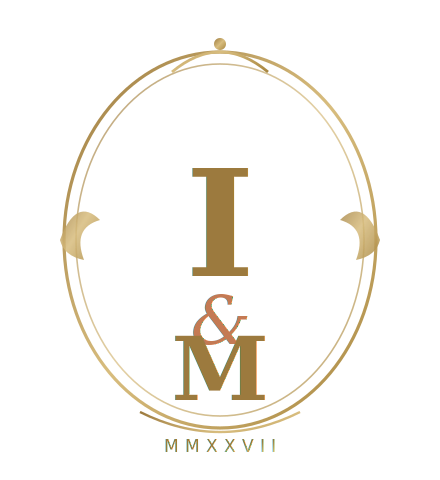
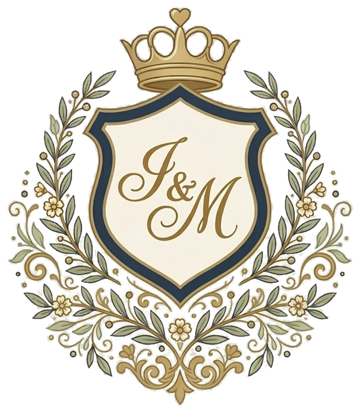
Update crest to the new heraldic I&M emblem
Key out the baked-in checkerboard from the supplied PNG to restore real
transparency, then use it as the crest everywhere: site gate, top-bar logo and
footer (SVG <use> swapped for <img>, resized for the new portrait emblem) plus
the email invite (regenerated email-crest.png + matching dimensions in Code.gs).
Favicon left as the simple I&M monogram (too detailed to shrink legibly).

Claude-Session: https://claude.ai/code/session_01CBfPBZsLFX6dsPR9cvZeRX

diff --git a/site/css/main.css b/site/css/main.css
@@ -90,7 +90,7 @@ h1,h2,h3{ font-weight:500; margin:0; }
 }
 .topbar.is-scrolled::before{ opacity:0; }
 .brand{ display:inline-flex; align-items:center; }
-.brand svg{ width:42px; height:42px; }
+.brand img{ height:46px; width:auto; display:block; }
 .nav{ display:flex; align-items:center; gap:1.6rem; }
 .nav a{
   font-family:var(--f-ui); font-size:.8rem; letter-spacing:.14em;
@@ -257,7 +257,7 @@ h1,h2,h3{ font-weight:500; margin:0; }
 
 /* ---- Footer -------------------------------------------------------------- */
 .footer{ background:var(--panna-2); text-align:center; padding:var(--section-y) var(--pad); }
-.footer .crest{ width:78px; height:78px; margin-inline:auto; }
+.footer .crest{ height:104px; width:auto; display:block; margin-inline:auto; }
 .footer .names{ margin:1rem 0; }
 .footer .names .n{ font-size:clamp(34px,7vw,56px); }
 .footer .names .amp{ font-size:clamp(18px,3vw,26px); }
@@ -296,7 +296,7 @@ html.locked #gate{ display:flex; }
   width:min(420px,100%); display:flex; flex-direction:column; align-items:center;
   text-align:center;
 }
-.gate__crest{ width:64px; height:64px; color:var(--oro); margin-bottom:1.1rem; }
+.gate__crest{ height:104px; width:auto; display:block; margin:0 auto 1.1rem; }
 .gate__names{
   font-family:var(--f-script); color:var(--ink); line-height:1;
   display:flex; align-items:baseline; gap:.32em; margin:0 0 1.3rem;

diff --git a/site/index.html b/site/index.html
@@ -29,7 +29,7 @@
   <!-- ===================== PASSWORD GATE ===================== -->
   <div id="gate" role="dialog" aria-modal="true" aria-labelledby="gate-title">
     <div class="gate__card">
-      <svg class="gate__crest" aria-hidden="true"><use href="assets/marks.svg#crest"></use></svg>
+      <img class="gate__crest" src="assets/img/crest.webp" alt="" width="480" height="551">
       <p class="gate__names"><span>Ilaria</span><span class="amp">&amp;</span><span>Maxime</span></p>
       <h1 class="gate__title" id="gate-title" data-i18n="gate.title">Un momento privato</h1>
       <p class="gate__hint" data-i18n="gate.hint">Inserite la password che trovate nel vostro invito.</p>
@@ -45,7 +45,7 @@
   <!-- ===================== TOP BAR ===================== -->
   <header class="topbar">
     <a href="#home" class="brand" aria-label="Ilaria & Maxime">
-      <svg aria-hidden="true"><use href="assets/marks.svg#crest"></use></svg>
+      <img src="assets/img/crest.webp" alt="" width="480" height="551">
     </a>
 
     <nav class="nav" aria-label="Primary">
@@ -380,7 +380,7 @@
 
   <!-- ===================== FOOTER ===================== -->
   <footer class="footer">
-    <svg class="crest" aria-hidden="true"><use href="assets/marks.svg#crest"></use></svg>
+    <img class="crest" src="assets/img/crest.webp" alt="" width="480" height="551">
     <p class="names"><span class="n">Ilaria</span><span class="amp">&amp;</span><span class="n">Maxime</span></p>
     <p class="footer__line" data-i18n="foot.line">Ilaria &amp; Maxime · 23 luglio 2027 · Villa Corsini a Mezzomonte</p>
     <p class="muted" data-i18n="foot.contact">Domande? [email]</p>